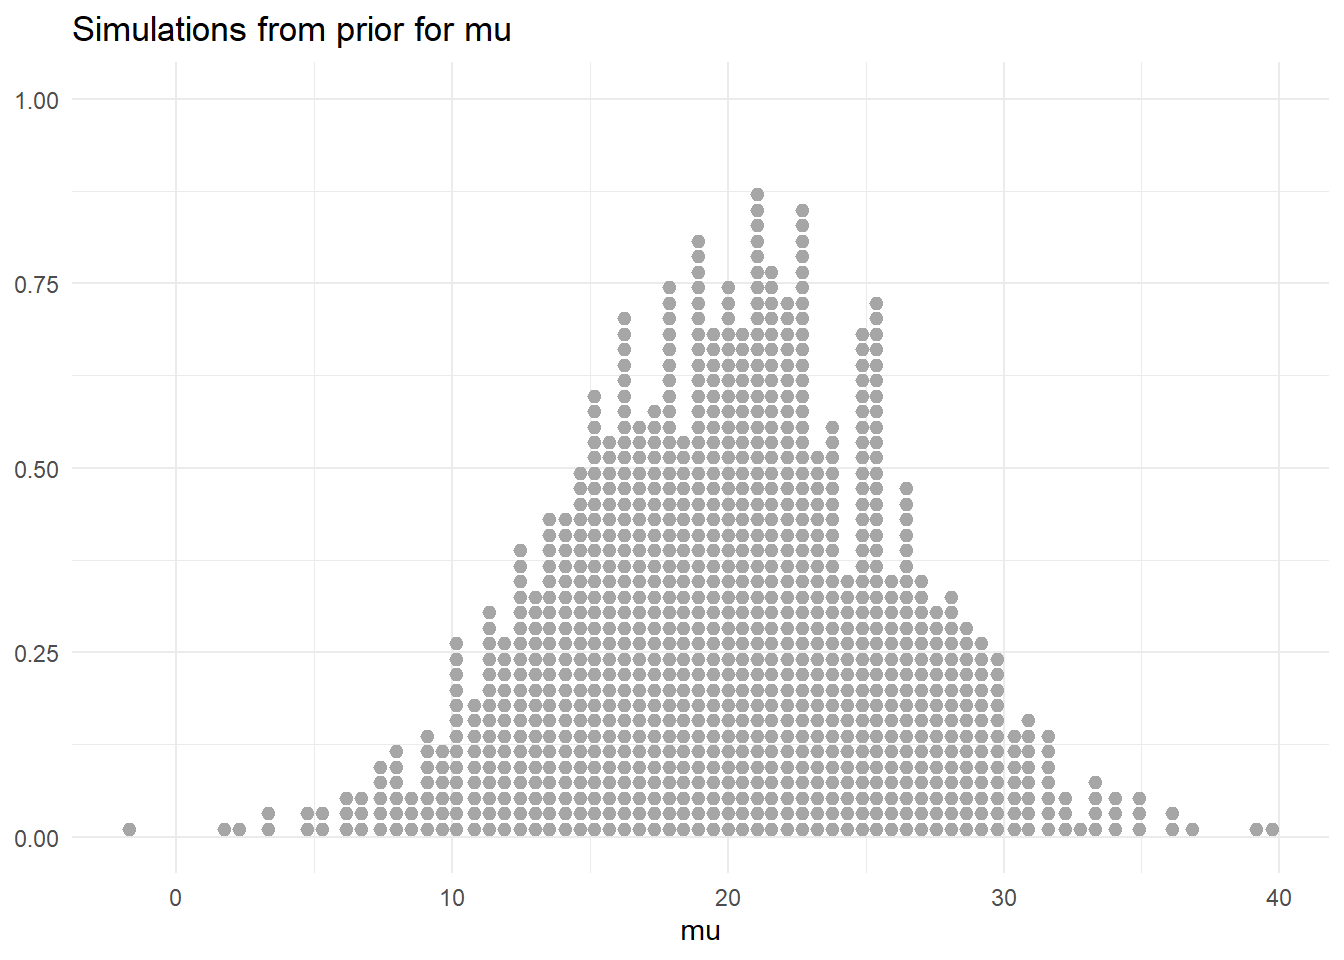
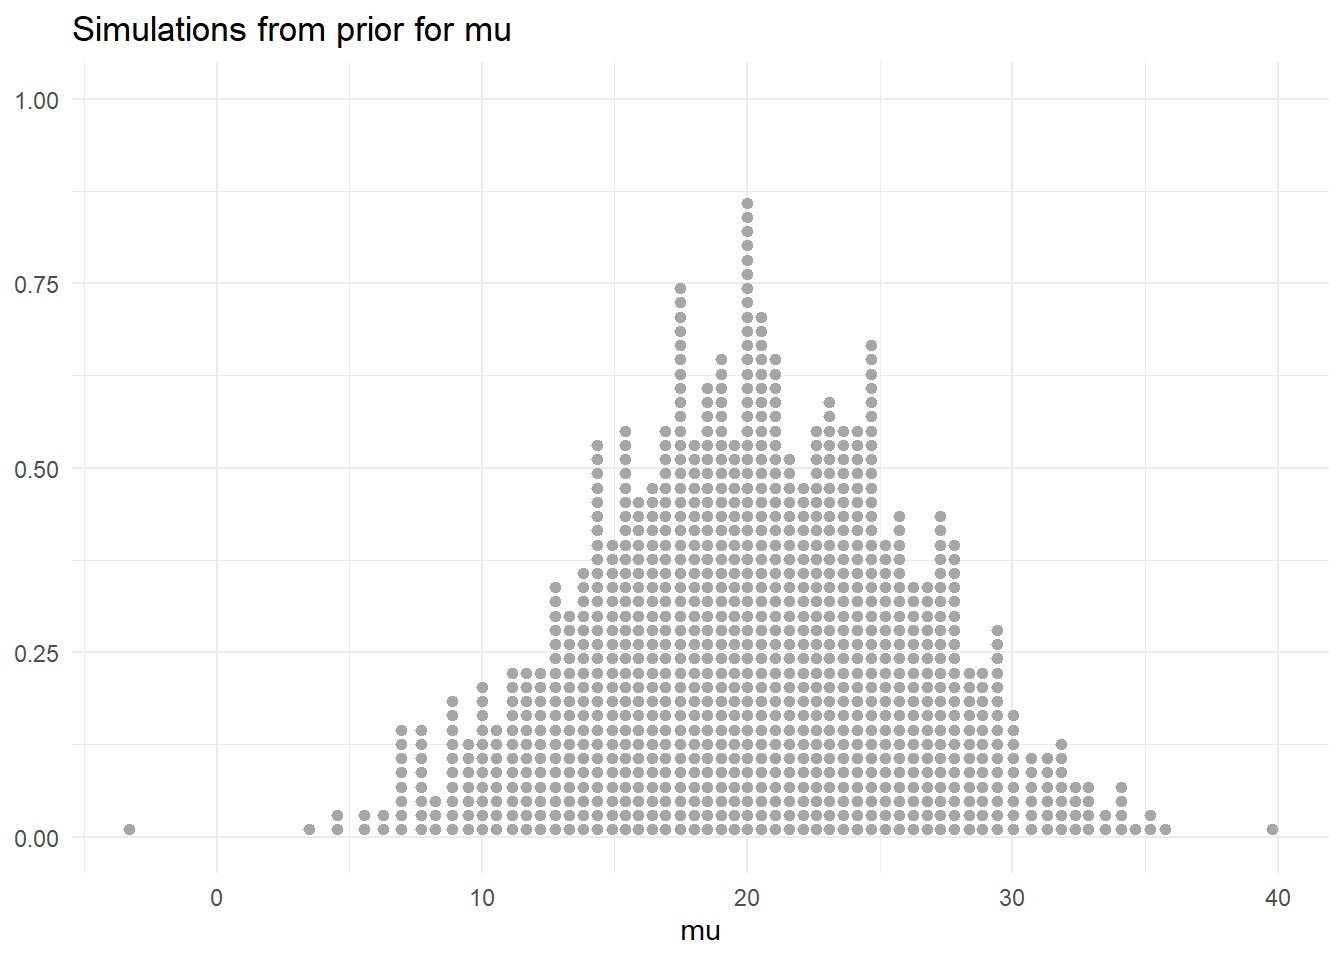
Built site for gh-pages

diff --git a/components.html b/components.html
@@ -484,7 +484,7 @@ lp__        -111.280959 1.026213063 -114.1671862 -110.321475</code></pre>
 <h3 class="anchored" data-anchor-id="specifying-the-model">Specifying the model</h3>
 <p><span class="math inline">\(\text{billdepth}_i \sim N(\mu, \sigma)\)</span></p>
 <p>Here, again, we say that bill depth is normally distributed with some mean and standard deviation.</p>
-<p><span class="math inline">\(\mu_i = \alpha + \beta(\text{billlength}_i = \text{mean}(\text{billlength}))\)</span></p>
+<p><span class="math inline">\(\mu_i = \alpha + \beta(\text{billlength}_i - \text{mean}(\text{billlength}))\)</span></p>
 <p>This addition makes it into a linear model. Instead of estimating <span class="math inline">\(\mu\)</span> from the data, we say that the mean of bill depth varies with bill length as linear function with an intercept <span class="math inline">\(\alpha\)</span> and a slope <span class="math inline">\(\beta\)</span>.</p>
 <p><span class="math inline">\(\alpha\)</span> and <span class="math inline">\(\beta\)</span> are now additional parameters that we will estimate and therefore need to set priors for.</p>
 <p><span class="math inline">\(\alpha \sim N(20, 6)\)</span></p>
@@ -493,12 +493,143 @@ lp__        -111.280959 1.026213063 -114.1671862 -110.321475</code></pre>
 </section>
 <section id="exploring-the-generative-model-1" class="level3">
 <h3 class="anchored" data-anchor-id="exploring-the-generative-model-1">Exploring the generative model</h3>
+<div class="cell">
+<div class="sourceCode cell-code" id="cb25"><pre class="sourceCode r code-with-copy"><code class="sourceCode r"><span id="cb25-1"><a href="#cb25-1" aria-hidden="true" tabindex="-1"></a>prior_draw <span class="ot">&lt;-</span> <span class="fu">data.frame</span>(</span>
+<span id="cb25-2"><a href="#cb25-2" aria-hidden="true" tabindex="-1"></a>  <span class="at">bill_length =</span> <span class="fu">seq</span>(<span class="fu">min</span>(penguins<span class="sc">$</span>bill_length_mm), <span class="fu">max</span>(penguins<span class="sc">$</span>bill_length_mm), <span class="at">length.out =</span> <span class="dv">100</span>),</span>
+<span id="cb25-3"><a href="#cb25-3" aria-hidden="true" tabindex="-1"></a>  <span class="at">intercept =</span> <span class="fu">rnorm</span>(<span class="dv">1</span>, <span class="dv">20</span>, <span class="dv">6</span>),</span>
+<span id="cb25-4"><a href="#cb25-4" aria-hidden="true" tabindex="-1"></a>  <span class="at">beta =</span> <span class="fu">rnorm</span>(<span class="dv">1</span>, <span class="dv">0</span>, <span class="dv">5</span>),</span>
+<span id="cb25-5"><a href="#cb25-5" aria-hidden="true" tabindex="-1"></a>  <span class="at">sigma =</span> <span class="fu">runif</span>(<span class="dv">1</span>, <span class="dv">0</span>, <span class="dv">20</span>)</span>
+<span id="cb25-6"><a href="#cb25-6" aria-hidden="true" tabindex="-1"></a>) <span class="sc">|&gt;</span></span>
+<span id="cb25-7"><a href="#cb25-7" aria-hidden="true" tabindex="-1"></a>  <span class="fu">mutate</span>(<span class="at">mu =</span> intercept <span class="sc">+</span> beta <span class="sc">*</span> (bill_length <span class="sc">-</span> <span class="fu">mean</span>(bill_length))) <span class="sc">|&gt;</span></span>
+<span id="cb25-8"><a href="#cb25-8" aria-hidden="true" tabindex="-1"></a>  <span class="fu">rowwise</span>() <span class="sc">|&gt;</span></span>
+<span id="cb25-9"><a href="#cb25-9" aria-hidden="true" tabindex="-1"></a>  <span class="fu">mutate</span>(<span class="at">sim_depth =</span> <span class="fu">rnorm</span>(<span class="dv">1</span>, mu, sigma)) </span></code><button title="Copy to Clipboard" class="code-copy-button"><i class="bi"></i></button></pre></div>
+</div>
+<div class="cell">
+<div class="sourceCode cell-code" id="cb26"><pre class="sourceCode r code-with-copy"><code class="sourceCode r"><span id="cb26-1"><a href="#cb26-1" aria-hidden="true" tabindex="-1"></a><span class="fu">ggplot</span>(prior_draw, <span class="fu">aes</span>(bill_length, mu)) <span class="sc">+</span></span>
+<span id="cb26-2"><a href="#cb26-2" aria-hidden="true" tabindex="-1"></a>  <span class="fu">geom_line</span>() <span class="sc">+</span></span>
+<span id="cb26-3"><a href="#cb26-3" aria-hidden="true" tabindex="-1"></a>  <span class="fu">geom_ribbon</span>(<span class="fu">aes</span>(<span class="at">ymin =</span> mu <span class="sc">-</span> sigma,</span>
+<span id="cb26-4"><a href="#cb26-4" aria-hidden="true" tabindex="-1"></a>                  <span class="at">ymax =</span> mu <span class="sc">+</span> sigma),</span>
+<span id="cb26-5"><a href="#cb26-5" aria-hidden="true" tabindex="-1"></a>              <span class="at">alpha =</span> .<span class="dv">3</span>) <span class="sc">+</span></span>
+<span id="cb26-6"><a href="#cb26-6" aria-hidden="true" tabindex="-1"></a>  <span class="fu">geom_point</span>(<span class="fu">aes</span>(<span class="at">y =</span> sim_depth)) <span class="sc">+</span></span>
+<span id="cb26-7"><a href="#cb26-7" aria-hidden="true" tabindex="-1"></a>  <span class="fu">ggtitle</span>(<span class="st">"Simulated bill depths"</span>,</span>
+<span id="cb26-8"><a href="#cb26-8" aria-hidden="true" tabindex="-1"></a>          <span class="at">subtitle =</span> <span class="st">"Based on a single draw from the priors"</span>)</span></code><button title="Copy to Clipboard" class="code-copy-button"><i class="bi"></i></button></pre></div>
+<div class="cell-output-display">
+<div>
+<figure class="figure">
+<p><img src="components_files/figure-html/unnamed-chunk-15-1.png" class="img-fluid figure-img" width="672"></p>
+</figure>
+</div>
+</div>
+</div>
 </section>
 <section id="fitting-the-model-with-data" class="level3">
 <h3 class="anchored" data-anchor-id="fitting-the-model-with-data">Fitting the model (with data)</h3>
+<div class="cell">
+<div class="sourceCode cell-code" id="cb27"><pre class="sourceCode r code-with-copy"><code class="sourceCode r"><span id="cb27-1"><a href="#cb27-1" aria-hidden="true" tabindex="-1"></a>depth_length_brm <span class="ot">&lt;-</span> <span class="fu">brm</span>(</span>
+<span id="cb27-2"><a href="#cb27-2" aria-hidden="true" tabindex="-1"></a>  <span class="at">family =</span> gaussian,</span>
+<span id="cb27-3"><a href="#cb27-3" aria-hidden="true" tabindex="-1"></a>  <span class="at">data =</span> penguins,</span>
+<span id="cb27-4"><a href="#cb27-4" aria-hidden="true" tabindex="-1"></a>  <span class="at">formula =</span> bill_depth_mm <span class="sc">~</span> bill_length_mm,</span>
+<span id="cb27-5"><a href="#cb27-5" aria-hidden="true" tabindex="-1"></a>  <span class="at">prior =</span> <span class="fu">c</span>(</span>
+<span id="cb27-6"><a href="#cb27-6" aria-hidden="true" tabindex="-1"></a>      <span class="fu">prior</span>(<span class="fu">normal</span>(<span class="dv">20</span>, <span class="dv">6</span>), <span class="at">class =</span> Intercept),</span>
+<span id="cb27-7"><a href="#cb27-7" aria-hidden="true" tabindex="-1"></a>      <span class="fu">prior</span>(<span class="fu">normal</span>(<span class="dv">0</span>, <span class="dv">5</span>), <span class="at">class =</span> b),</span>
+<span id="cb27-8"><a href="#cb27-8" aria-hidden="true" tabindex="-1"></a>      <span class="fu">prior</span>(<span class="fu">uniform</span>(<span class="dv">0</span>, <span class="dv">20</span>), <span class="at">class =</span> sigma, <span class="at">ub =</span> <span class="dv">20</span>)),</span>
+<span id="cb27-9"><a href="#cb27-9" aria-hidden="true" tabindex="-1"></a>  <span class="at">iter =</span> <span class="dv">1000</span></span>
+<span id="cb27-10"><a href="#cb27-10" aria-hidden="true" tabindex="-1"></a>)</span></code><button title="Copy to Clipboard" class="code-copy-button"><i class="bi"></i></button></pre></div>
+</div>
+<div class="cell">
+<div class="sourceCode cell-code" id="cb28"><pre class="sourceCode r code-with-copy"><code class="sourceCode r"><span id="cb28-1"><a href="#cb28-1" aria-hidden="true" tabindex="-1"></a><span class="fu">plot</span>(depth_length_brm)</span></code><button title="Copy to Clipboard" class="code-copy-button"><i class="bi"></i></button></pre></div>
+<div class="cell-output-display">
+<div>
+<figure class="figure">
+<p><img src="components_files/figure-html/unnamed-chunk-19-1.png" class="img-fluid figure-img" width="672"></p>
+</figure>
+</div>
+</div>
+</div>
+<div class="cell">
+<div class="sourceCode cell-code" id="cb29"><pre class="sourceCode r code-with-copy"><code class="sourceCode r"><span id="cb29-1"><a href="#cb29-1" aria-hidden="true" tabindex="-1"></a><span class="fu">summary</span>(depth_length_brm)</span></code><button title="Copy to Clipboard" class="code-copy-button"><i class="bi"></i></button></pre></div>
+<div class="cell-output cell-output-stdout">
+<pre><code> Family: gaussian 
+  Links: mu = identity; sigma = identity 
+Formula: bill_depth_mm ~ bill_length_mm 
+   Data: penguins (Number of observations: 68) 
+  Draws: 4 chains, each with iter = 1000; warmup = 500; thin = 1;
+         total post-warmup draws = 2000
+
+Regression Coefficients:
+               Estimate Est.Error l-95% CI u-95% CI Rhat Bulk_ESS Tail_ESS
+Intercept          7.57      1.60     4.29    10.62 1.00     1828     1302
+bill_length_mm     0.22      0.03     0.16     0.29 1.00     1803     1301
+
+Further Distributional Parameters:
+      Estimate Est.Error l-95% CI u-95% CI Rhat Bulk_ESS Tail_ESS
+sigma     0.88      0.08     0.75     1.05 1.00     2180     1472
+
+Draws were sampled using sampling(NUTS). For each parameter, Bulk_ESS
+and Tail_ESS are effective sample size measures, and Rhat is the potential
+scale reduction factor on split chains (at convergence, Rhat = 1).</code></pre>
+</div>
+</div>
 </section>
 <section id="exploring-the-posterior-1" class="level3">
 <h3 class="anchored" data-anchor-id="exploring-the-posterior-1">Exploring the posterior</h3>
+<div class="cell">
+<div class="sourceCode cell-code" id="cb31"><pre class="sourceCode r code-with-copy"><code class="sourceCode r"><span id="cb31-1"><a href="#cb31-1" aria-hidden="true" tabindex="-1"></a>lm_posterior <span class="ot">&lt;-</span> <span class="fu">as_draws_df</span>(depth_length_brm)</span>
+<span id="cb31-2"><a href="#cb31-2" aria-hidden="true" tabindex="-1"></a></span>
+<span id="cb31-3"><a href="#cb31-3" aria-hidden="true" tabindex="-1"></a><span class="fu">head</span>(lm_posterior)</span></code><button title="Copy to Clipboard" class="code-copy-button"><i class="bi"></i></button></pre></div>
+<div class="cell-output cell-output-stdout">
+<pre><code># A draws_df: 6 iterations, 1 chains, and 6 variables
+  b_Intercept b_bill_length_mm sigma Intercept lprior lp__
+1         7.4             0.23  0.96        19   -8.3  -97
+2         7.0             0.24  0.94        19   -8.3  -96
+3         7.8             0.22  0.89        19   -8.3  -96
+4         7.6             0.23  0.79        19   -8.3  -96
+5         7.4             0.22  0.93        18   -8.3  -96
+6         8.9             0.20  0.92        18   -8.3  -95
+# ... hidden reserved variables {'.chain', '.iteration', '.draw'}</code></pre>
+</div>
+</div>
+<div class="cell">
+<div class="sourceCode cell-code" id="cb33"><pre class="sourceCode r code-with-copy"><code class="sourceCode r"><span id="cb33-1"><a href="#cb33-1" aria-hidden="true" tabindex="-1"></a><span class="fu">ggplot</span>(lm_posterior, <span class="fu">aes</span>(b_Intercept)) <span class="sc">+</span></span>
+<span id="cb33-2"><a href="#cb33-2" aria-hidden="true" tabindex="-1"></a>  <span class="fu">stat_dotsinterval</span>()</span></code><button title="Copy to Clipboard" class="code-copy-button"><i class="bi"></i></button></pre></div>
+<div class="cell-output-display">
+<div>
+<figure class="figure">
+<p><img src="components_files/figure-html/unnamed-chunk-22-1.png" class="img-fluid figure-img" width="672"></p>
+</figure>
+</div>
+</div>
+<div class="sourceCode cell-code" id="cb34"><pre class="sourceCode r code-with-copy"><code class="sourceCode r"><span id="cb34-1"><a href="#cb34-1" aria-hidden="true" tabindex="-1"></a><span class="fu">ggplot</span>(lm_posterior, <span class="fu">aes</span>(b_bill_length_mm)) <span class="sc">+</span></span>
+<span id="cb34-2"><a href="#cb34-2" aria-hidden="true" tabindex="-1"></a>  <span class="fu">stat_dotsinterval</span>()</span></code><button title="Copy to Clipboard" class="code-copy-button"><i class="bi"></i></button></pre></div>
+<div class="cell-output-display">
+<div>
+<figure class="figure">
+<p><img src="components_files/figure-html/unnamed-chunk-22-2.png" class="img-fluid figure-img" width="672"></p>
+</figure>
+</div>
+</div>
+<div class="sourceCode cell-code" id="cb35"><pre class="sourceCode r code-with-copy"><code class="sourceCode r"><span id="cb35-1"><a href="#cb35-1" aria-hidden="true" tabindex="-1"></a><span class="fu">ggplot</span>(lm_posterior, <span class="fu">aes</span>(sigma)) <span class="sc">+</span></span>
+<span id="cb35-2"><a href="#cb35-2" aria-hidden="true" tabindex="-1"></a>  <span class="fu">stat_dotsinterval</span>()</span></code><button title="Copy to Clipboard" class="code-copy-button"><i class="bi"></i></button></pre></div>
+<div class="cell-output-display">
+<div>
+<figure class="figure">
+<p><img src="components_files/figure-html/unnamed-chunk-22-3.png" class="img-fluid figure-img" width="672"></p>
+</figure>
+</div>
+</div>
+</div>
+<div class="cell">
+<div class="sourceCode cell-code" id="cb36"><pre class="sourceCode r code-with-copy"><code class="sourceCode r"><span id="cb36-1"><a href="#cb36-1" aria-hidden="true" tabindex="-1"></a><span class="fu">posterior_summary</span>(depth_length_brm)</span></code><button title="Copy to Clipboard" class="code-copy-button"><i class="bi"></i></button></pre></div>
+<div class="cell-output cell-output-stdout">
+<pre><code>                    Estimate   Est.Error        Q2.5       Q97.5
+b_Intercept        7.5678375 1.597685969   4.2885750  10.6186846
+b_bill_length_mm   0.2222723 0.032584203   0.1603925   0.2888031
+sigma              0.8829648 0.077046605   0.7505312   1.0523065
+Intercept         18.4222455 0.108770766  18.2085474  18.6326642
+lprior            -8.2705540 0.004796696  -8.2807804  -8.2617956
+lp__             -95.6697446 1.293997087 -99.0571858 -94.2660701</code></pre>
+</div>
+</div>
 
 
 </section>
